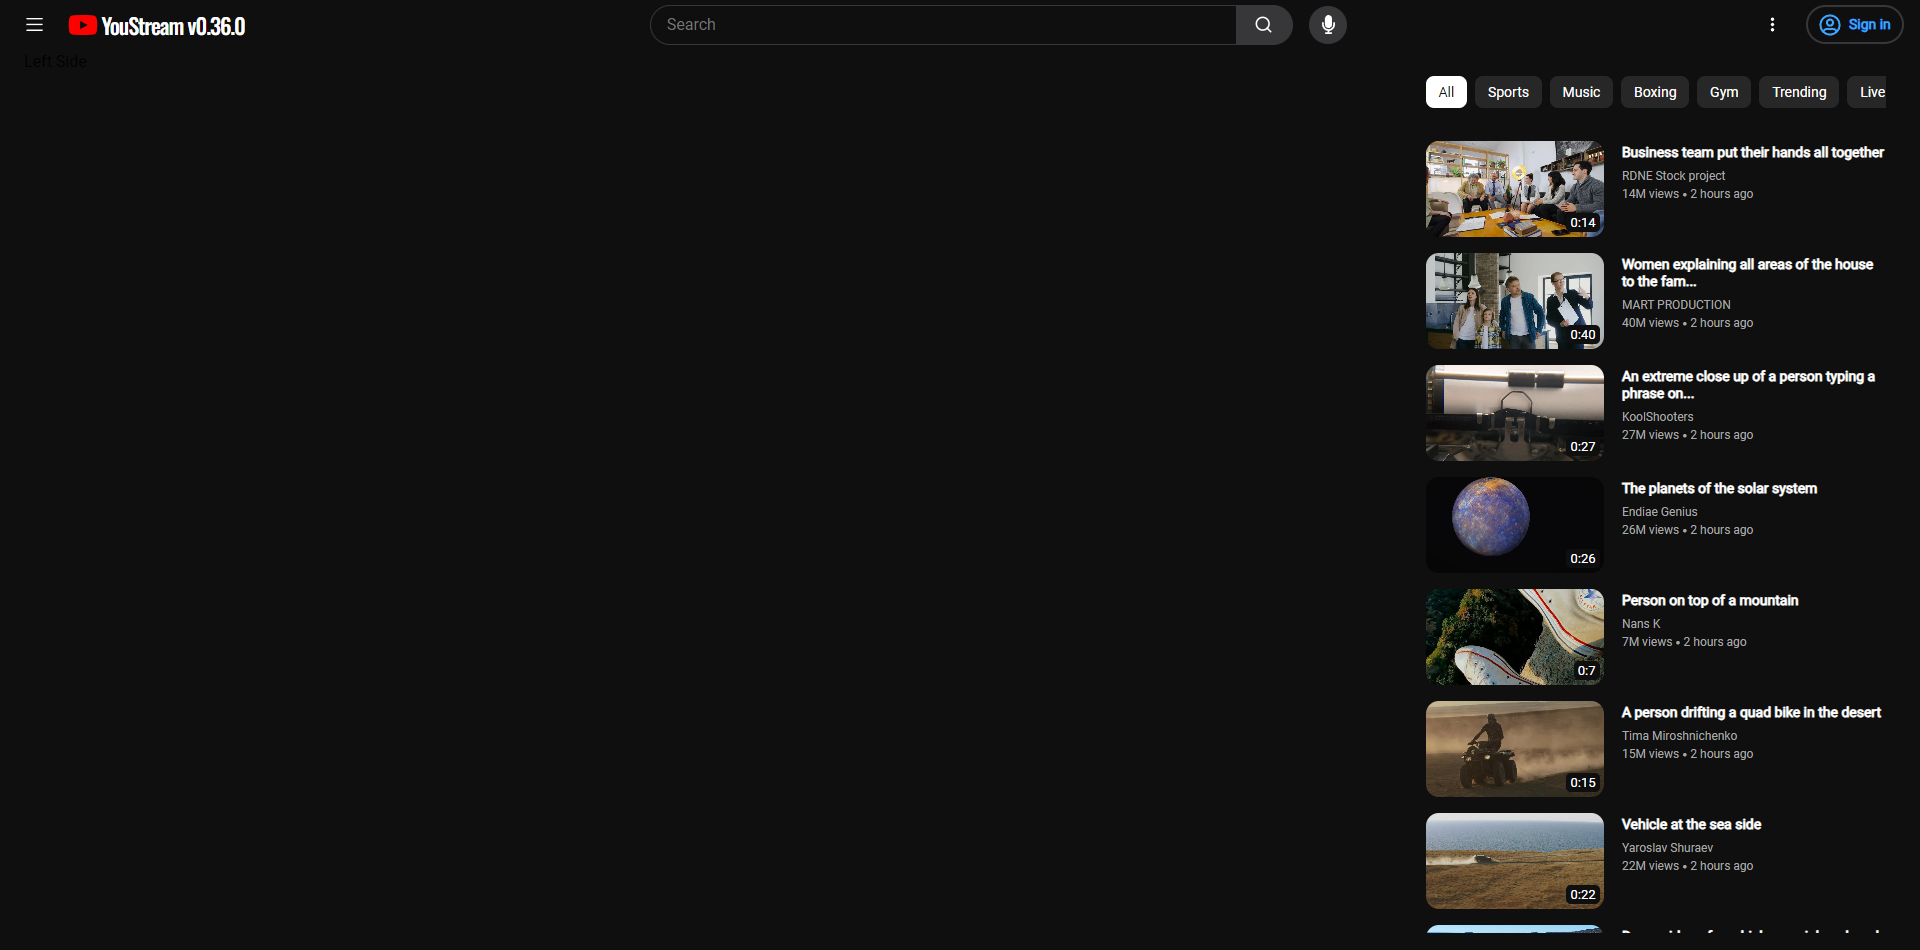
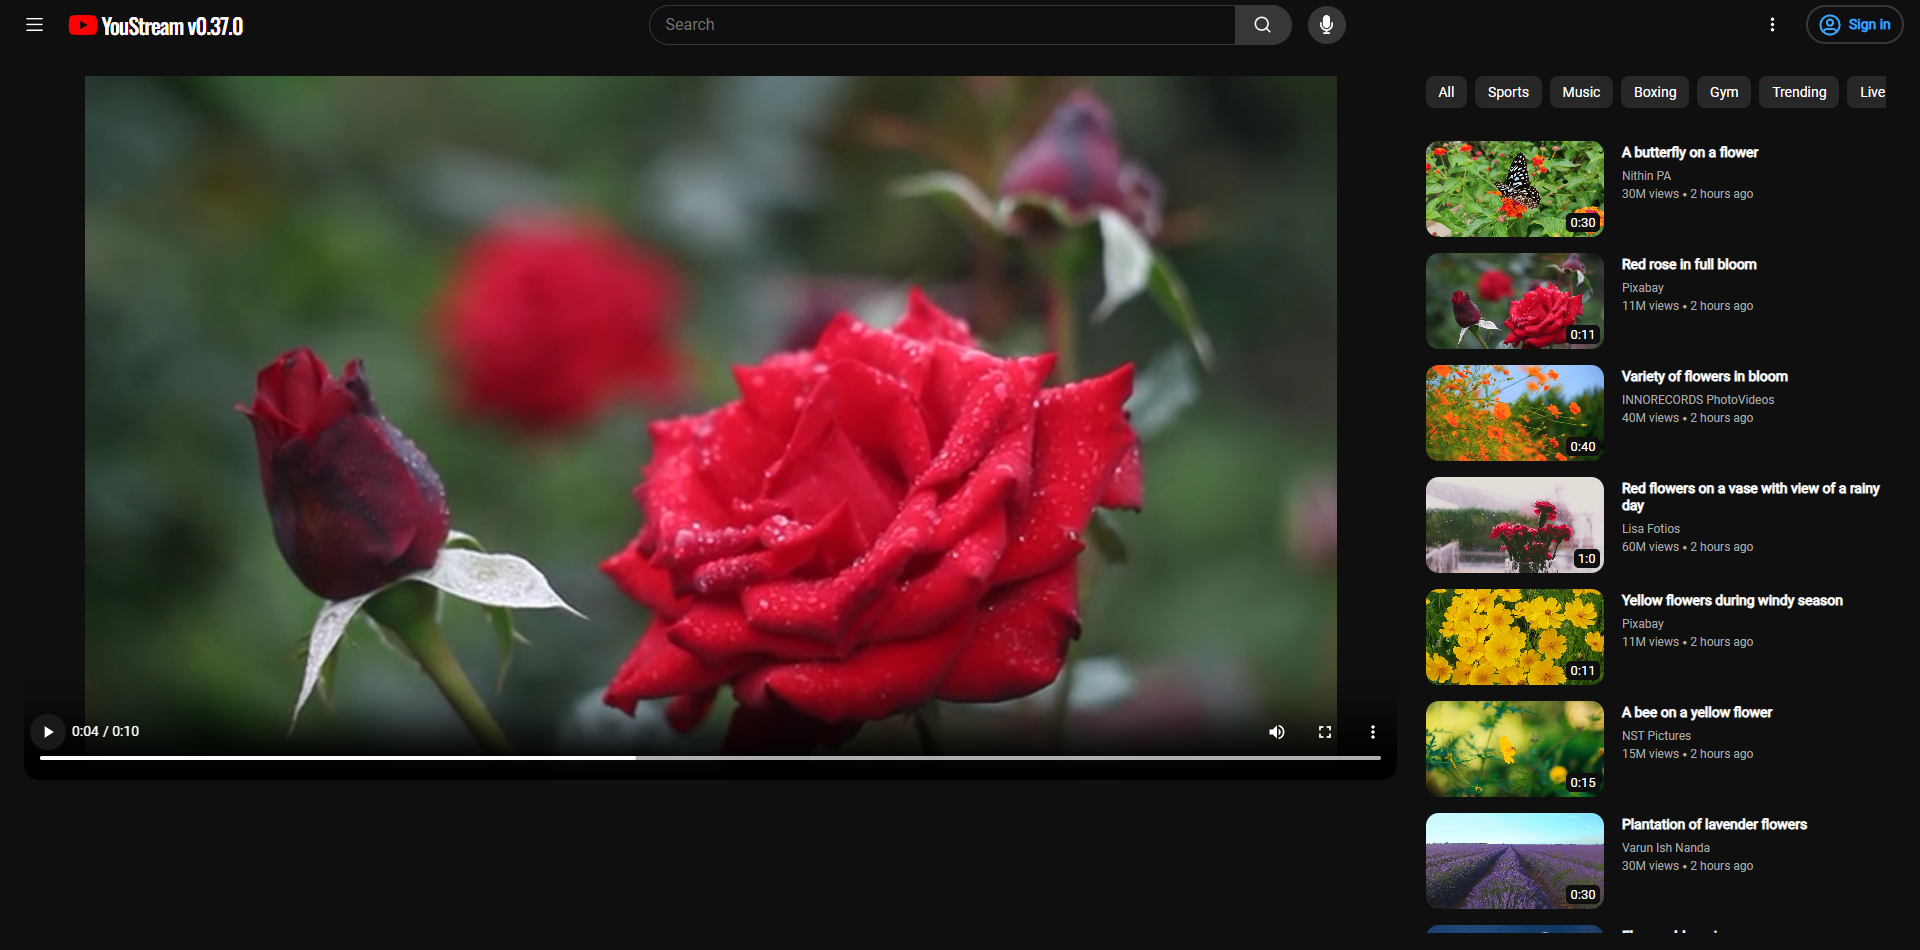
YOU STREAM 0.37.0
Update App.context.tsx
Update WatchVideoContents.tsx
Update WatchVideoContents.styles.ts

diff --git a/src/context/App.context.tsx b/src/context/App.context.tsx
@@ -29,6 +29,8 @@ interface IAppContextValue {
   isFetchingVideos: boolean;
   videoToWatch: number;
   setVideoToWatch: Dispatch<SetStateAction<number>>;
+  videoToWatchData: Video | undefined;
+  fetchVideo: (id: string) => Promise<void>;
 }
 
 const AppContext = createContext<IAppContextValue | null>(null);
@@ -57,6 +59,7 @@ export const AppContextProvider = ({ children }: IAppContextProviderProps) => {
   const [videos, setVideos] = useState<Video[]>([]);
   const [isFetchingVideos, setIsFetchingVideos] = useState(false);
   const [videoToWatch, setVideoToWatch] = useState<number>(0);
+  const [videoToWatchData, setVideoToWatchData] = useState<Video>();
 
   let navigate = useNavigate();
 
@@ -81,10 +84,17 @@ export const AppContextProvider = ({ children }: IAppContextProviderProps) => {
         per_page: 44,
       });
       setVideos((response as Videos).videos);
-      console.log("RESPONSE", (response as Videos).videos);
-    } catch (error) {
-      console.log("THERE WAS AN ERROR FETCHIN VIDEOS");
-    }
+    } catch (error) {}
+    setIsFetchingVideos(false);
+  };
+  const fetchVideo = async (id: string) => {
+    setIsFetchingVideos(true);
+    try {
+      const response = await client.videos.show({
+        id,
+      });
+      setVideoToWatchData(response as Video);
+    } catch (error) {}
     setIsFetchingVideos(false);
   };
   const toggleTheme = () => {
@@ -114,6 +124,8 @@ export const AppContextProvider = ({ children }: IAppContextProviderProps) => {
     isFetchingVideos,
     videoToWatch,
     setVideoToWatch,
+    videoToWatchData,
+    fetchVideo,
   };
 
   return <AppContext.Provider value={value}>{children}</AppContext.Provider>;

diff --git a/src/components/watchVideoContents/WatchVideoContents.tsx b/src/components/watchVideoContents/WatchVideoContents.tsx
@@ -1,19 +1,52 @@
-import React from "react";
+import React, { useEffect } from "react";
 import {
   MoreVideosContainer,
   StyledWatchVideoContents,
+  VideoScreen,
+  WatchVideosContainer,
 } from "./WatchVideoContents.styles";
 import Categories from "../categories/Categories";
 import { useAppContext } from "../../context/App.context";
 import RegularVideoItem from "../regularVideoItem/RegularVideoItem";
+import { useParams } from "react-router-dom";
+import { getTitle } from "../../utils/videos";
+import { LoadingBackdrop } from "../content/Content.styles";
+import ReactPlayer from "react-player";
 
 const WatchVideoContents = () => {
-  const { videos } = useAppContext();
+  const { videos, fetchVideo, videoToWatchData, isFetchingVideos } =
+    useAppContext();
+  const { id } = useParams();
+
+  document.title = getTitle(videoToWatchData?.url!);
+
+  useEffect(() => {
+    if (id) {
+      fetchVideo(id);
+    }
+  }, [id]);
+
+  if (isFetchingVideos) {
+    return <LoadingBackdrop />;
+  }
 
   return (
     <div>
       <StyledWatchVideoContents>
-        <p>Left Side</p>
+        <WatchVideosContainer>
+          <VideoScreen>
+            <ReactPlayer
+              width="100%"
+              height="100%"
+              controls={true}
+              volume={1}
+              muted={false}
+              style={{ height: "100%", width: "100%" }}
+              playing={true}
+              url={videoToWatchData?.video_files[0].link}
+            />
+          </VideoScreen>
+        </WatchVideosContainer>
         <MoreVideosContainer>
           <Categories />
           {videos.map((video, index) => (

diff --git a/src/components/watchVideoContents/WatchVideoContents.styles.ts b/src/components/watchVideoContents/WatchVideoContents.styles.ts
@@ -17,3 +17,15 @@ export const MoreVideosContainer = styled.div`
   gap: 1rem;
   padding-top: 1.5rem;
 `;
+
+export const WatchVideosContainer = styled.div`
+  width: 100%;
+  padding-top: 1.5rem;
+`;
+
+export const VideoScreen = styled.div`
+  width: 100%;
+  height: 44rem;
+  border-radius: 1rem;
+  overflow: hidden;
+`;

diff --git a/src/components/header/Header.tsx b/src/components/header/Header.tsx
@@ -48,7 +48,7 @@ const Header = () => {
         </Icon>
         <LogoSection to="/">
           <FaYoutube color="#FF0000" size={30} />
-          <Text className="logo">YouStream v0.36.0</Text>
+          <Text className="logo">YouStream v0.37.0</Text>
         </LogoSection>
       </LeftSection>
       <SearchSection>

diff --git a/README.md b/README.md
@@ -11,7 +11,7 @@
 
 - **STACK :**
 
-  - **YOU STREAM** : `0.36.0`
+  - **YOU STREAM** : `0.37.0`
   - **REACT** : `18.2.0`
   - **PEXELS** : `1.4.0`
   - **REACT ICONS** : `5.0.1`
